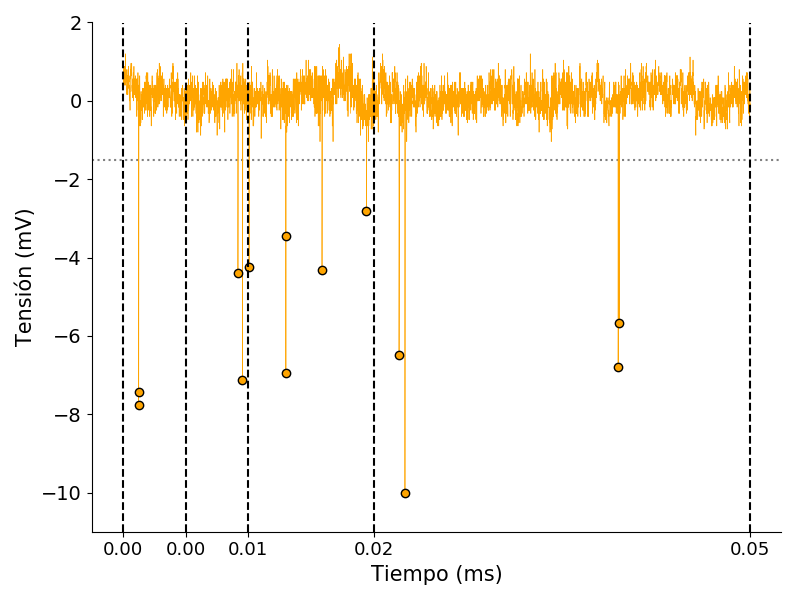
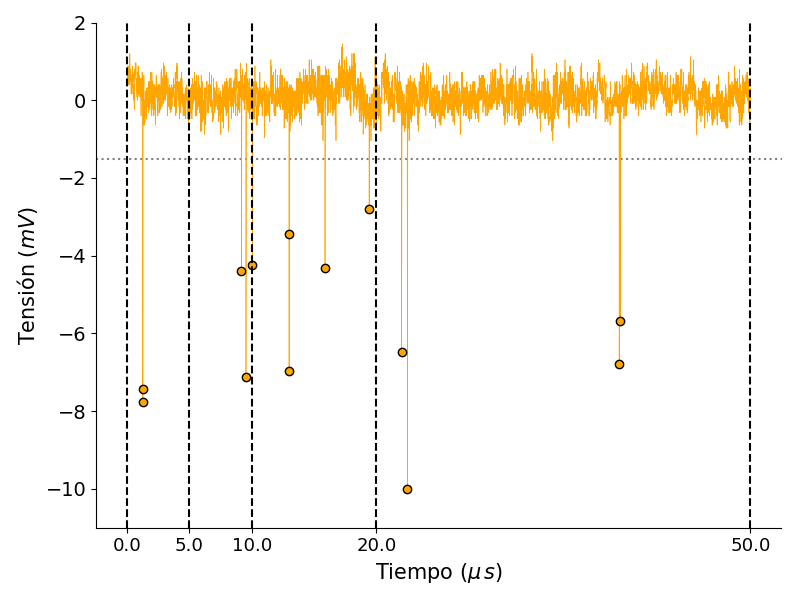
Trabajo terminado

diff --git a/figuras.py b/figuras.py
@@ -6,6 +6,7 @@ Archivo para el análisis de las mediciones
 import numpy as np
 import matplotlib.pyplot as plt
 import matplotlib.gridspec as gridspec
+import matplotlib.animation as animation
 
 from adquisicion import detecta_picos
 from recupera_datos import ejes_largos
@@ -30,16 +31,31 @@ plt.rc('legend', fontsize=14, loc='best')
 plt.rc('axes', labelsize=15)
 
 
-def plot_umbral(medicion, ax=None, n_bins=50):
+def plot_umbral(medicion, ax=None, n_bins=20, color='blue',
+                ylim=1000, umbral=-2.4):
     """ Grafica el historial de una medición """
 
     x, y = ejes_largos(medicion)
+    y = y * 1000
     picos = detecta_picos(y)
     if ax is None:
         fig, ax = plt.subplots(1)
 
-    valores = -np.arange(n_bins) * 0.0008
-    ax.hist(y[picos], bins=valores[::-1])
+    valores = -np.arange(n_bins) * 0.8
+    valores = valores[::-1]
+    ax.hist(y[picos], bins=valores, align='right',
+            edgecolor='white', linewidth=2.0, color=color)
+    ax.set_xticks(valores[::1])
+
+    for tick in ax.get_xticklabels():
+        tick.set_rotation(90)
+
+    ax.axvline(umbral, ls='--')
+
+    ax.set_ylim(0, ylim)
+    ax.yaxis.grid(ls=':')
+    ax.set_xlabel('Tensión ($mV$)')
+    plt.tight_layout()
 
 
 def plot_ejemplo_conteo(puntos=1000, pantalla=50, prob=0.05):
@@ -97,15 +113,27 @@ def plot_bose(ventanas=(500, 1000, 2000, 5000), umbral=-0.005):
     plt.tight_layout()
 
 
-def plot_segmento(medicion, largos=[1, 500, 1000, 2000, 5000], inicio=0,
-                  color='blue', umbral=-0.0015):
+def plot_bose_con_poisson(ventanas=(5000, 5000, ), umbral=-0.005):
+    """ Grafica los resultados de bose para las ventanas especificadas """
 
-    fig, ax = plt.subplots(1)
+    fig, ax = graficar_ventanas(medicion='bose',
+                                ventanas=ventanas,
+                                umbral=umbral,
+                                ajusta_bose=True,
+                                color='orange')
+    plt.tight_layout()
+
+
+def plot_segmento(medicion, largos=[1, 500, 1000, 2000, 5000], inicio=0, color='blue',
+                  umbral=-0.0024, mult=1e3, unidad='ms', f=2, ax=None):
+
+    if ax is None:
+        fig, ax = plt.subplots(1)
     x, y = ejes_largos(medicion)
     x, y = x[inicio:inicio + max(largos)], y[inicio:inicio + max(largos)]
-    x = x * 1000.0
+    x = x * mult
     x = x - x[0]
-    y = y * 1000.0
+    y = y * 1000
     puntas = detecta_picos(y, umbral=umbral * 1000)
     ax.axhline(umbral * 1000, ls=':', color='0.5')
 
@@ -116,13 +144,114 @@ def plot_segmento(medicion, largos=[1, 500, 1000, 2000, 5000], inicio=0,
     for largo in largos:
         ax.axvline(x[largo - 1], ls='--', color='k')
         ax.set_xticks(x[np.asarray(largos, dtype=int) - 1])
-        ax.set_xticklabels(['{:.2f}'.format(x[l - 1]) for l in largos],
+        ax.set_xticklabels(['{:.{f}f}'.format(x[l - 1], f=f) for l in largos],
                            fontsize=13)
     ax.set_ylim(min(y) * 1.1, 2)
-    ax.set_xlabel('Tiempo (ms)')
-    ax.set_ylabel('Tensión (mV)')
+    ax.set_xlabel(r'Tiempo (${}$)'.format(unidad))
+    ax.set_ylabel('Tensión ($mV$)')
 
-    return fig, ax
+
+plt.ion()
+
+
+def plot_segmento_acorr(medicion, largo=200, inicio=0, color='blue', ts=0.5,
+                        umbral=-0.0024, mult=1e3, unidad='ms', ax=None,
+                        figsize=(5, 3), label=''):
+
+    if ax is None:
+        fig, ax = plt.subplots(1, figsize=figsize)
+
+    x, y = ejes_largos(medicion)
+    x, y = x[inicio:inicio + largo], y[inicio:inicio + largo]
+    x = x * mult
+    x = x - x[0]
+    y = y * 1000
+
+    ax.plot(x, y, color=color, lw=1.5, label=label)
+
+    ax.set_ylim(min(y) * 1.1, 2)
+    ax.set_xlabel(r'Tiempo (${}$)'.format(unidad))
+    # ax.set_ylabel('Tensión ($mV$)')
+    ax.set_xticks(np.arange(min(x), max(x), ts))
+    ax.set_yticks([])
+    ax.xaxis.grid(ls='--')
+
+    plt.tight_layout()
+
+
+def gif_adquisicion(medicion, frames=200, skip=100):
+
+    fig, ax = plt.subplots(1)
+
+    x, y = ejes_largos(medicion)
+    cantidad = np.zeros(frames * skip, dtype=int)
+
+    cantidad[0] = 0
+    hy, hx = np.histogram(cantidad[0], bins=np.arange(10))
+    barras = ax.bar(hx[1:], hy)
+
+    ax.set_xticks(np.arange(10))
+    ax.set_ylim(0, 70)
+
+    def update(i):
+        for j in range(10):
+            k = i + j
+            xn = x[k * 2500:(k + 1) * 2500]
+            xn = xn - xn[0]
+            yn = y[k * 2500:(k + 1) * 2500]
+            puntas = detecta_picos(yn, umbral=-0.005)
+            cantidad[k] = sum(yn[puntas] < 0)
+
+        hy, hx = np.histogram(cantidad[0:k], bins=np.arange(10))
+        for barra, yi in zip(barras, hy):
+            barra.set_height(yi)
+
+        return barras
+
+    animacion = animation.FuncAnimation(fig, update, frames,
+                                        interval=25, blit=False)
+
+    return animacion
+
+
+def gif_adquisicion2(medicion, frames=20):
+
+    fig, ax = plt.subplots(1)
+
+    x, y = ejes_largos(medicion)
+    y = y * 1000
+    x = x * 1000
+
+    ax.axhline(-2, ls='--', c='k')
+
+    x0, y0 = x[0:2500], y[0:2500]
+    puntas0 = detecta_picos(y0, umbral=-2)
+    plot_curva, = ax.plot(x0, y0)
+    plot_puntas, = ax.plot(x0[puntas0], y0[puntas0], marker='o',
+                           mfc='white', ls='')
+
+    ax.set_ylim(-15, 2)
+    ax.set_xlabel(r'Tiempo ($ms$)')
+    ax.set_ylabel(r'Tensión ($mV$)')
+
+    plt.tight_layout()
+
+    def update(i):
+        k = i
+        xn = x[k * 2500:(k + 1) * 2500]
+        xn = xn - xn[0]
+        yn = y[k * 2500:(k + 1) * 2500]
+        puntas = detecta_picos(yn, umbral=-2)
+
+        plot_curva.set_data(xn, yn)
+        plot_puntas.set_data(xn[puntas], yn[puntas])
+
+        return plot_curva, plot_puntas
+
+    animacion = animation.FuncAnimation(fig, update, frames,
+                                        interval=250, blit=False)
+
+    return animacion
 
 
 plt.ion()

diff --git a/analisis.py b/analisis.py
@@ -63,12 +63,12 @@ def histograma(medicion, tamaño_ventana=2500,
 
     hist_y, hist_x = np.histogram(cantidad, bins=np.arange(bins),
                                   density=True)
-    #hist_x += ((hist_x[1] - hist_x[0]) / 2)
+    # hist_x += ((hist_x[1] - hist_x[0]) / 2)
     hist_x = hist_x[0:-1]
 
     if plot_histograma:
         ax.bar(hist_x, hist_y, alpha=0.7, color=color,
-               label=r'$t_c={:.2f}\;\mu s$'.format(abs(duracion)))
+               label=r'$T={:.2f}\;\mu s$'.format(abs(duracion)))
 
     if ajusta_poisson:
         lambda_poisson, A = ajustar_poisson(hist_x, hist_y)
@@ -107,20 +107,32 @@ def graficar_ventanas(medicion, ventanas, umbral=-0.001, bins=15, color='blue',
     return fig, ax
 
 
-def autocorrelacion(medicion):
+def autocorrelacion(medicion, ax=None, x_inc=0.5, color='blue'):
     """ Grafica la autocorrelación """
 
-    fig, ax = plt.subplots(1)
-    plot_acorr, = ax.plot([], [])
+    if ax is None:
+        fig, ax = plt.subplots(1)
+
+    ax.set_ylim(-0.1, 0.15)
+    plot_acorr, = ax.plot([], [], color=color, lw=2)
+    ax.grid(ls=':')
+
     acorr = np.zeros(1250, dtype=float)
 
     for i, eje_x, eje_y in recorrer_ejes(medicion):
-        #acorr += np.correlate(eje_y, eje_y, 'same')
         acorr += fft_autocorrelacion(eje_y)
-        plot_acorr.set_data(eje_x[1250:], acorr / i)
+        plot_acorr.set_data(eje_x[1250:] * 1000, acorr / i)
         ax.relim()
         ax.autoscale_view()
         plt.pause(0.001)
+
+    x = eje_x[1250:] * 1000
+    x0 = x[np.argmax(acorr < 0)]
+    ax.axvline(x0, ls='--')
+    ax.set_ylabel('Autocorrelación')
+    ax.set_xlabel('Tiempo ($ms$)')
+
+    ax.set_xticks(np.arange(min(x), max(x), x_inc))
 
     return eje_x, acorr
 
@@ -145,11 +157,17 @@ if __name__ == '__main__':
     graficar_ventanas(medicion='poisson',
                       ventanas=(500, 1000, 2000, 5000),
                       umbral=-0.004,
-                      ajusta_poisson=True,
-                      ajusta_bose=True)
+                      ajusta_poisson=False,
+                      ajusta_bose=True,
+                      color='blue')
+
+    plt.tight_layout()
 
     graficar_ventanas(medicion='bose',
                       ventanas=(500, 1000, 2000, 5000),
                       umbral=-0.004,
                       ajusta_poisson=True,
-                      ajusta_bose=True)
+                      ajusta_bose=False,
+                      color='orange')
+
+    plt.tight_layout()
